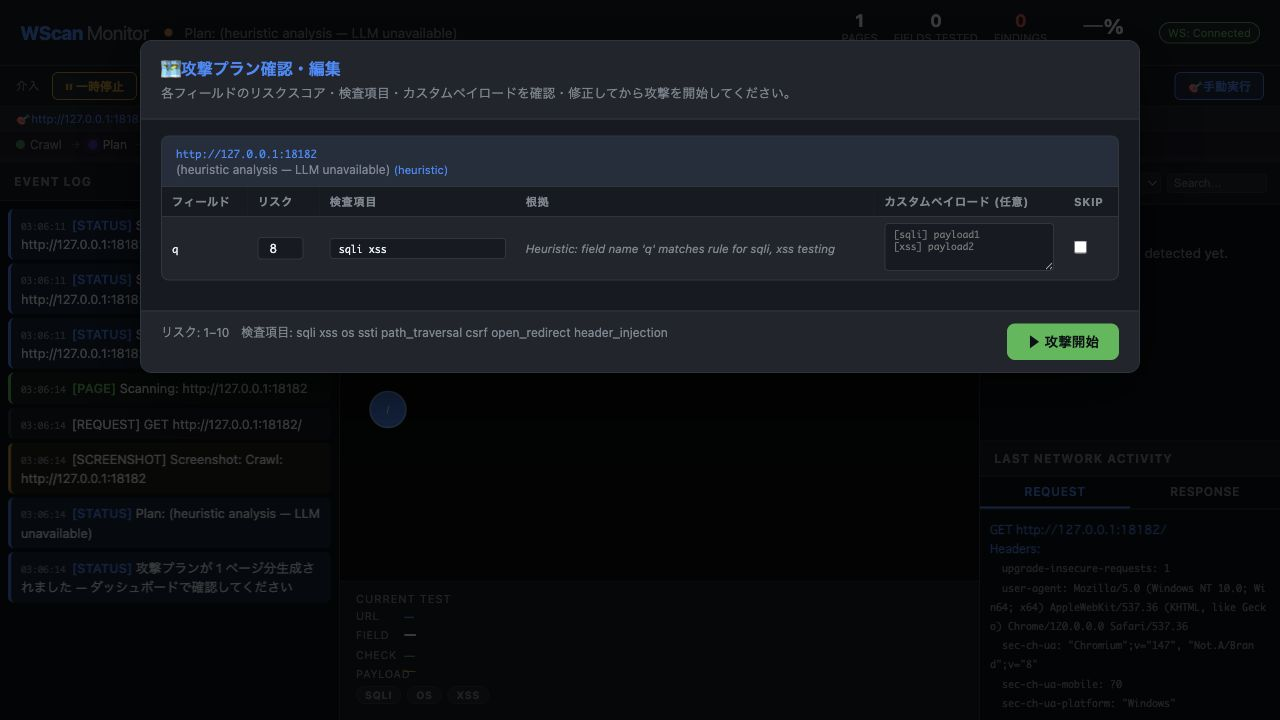
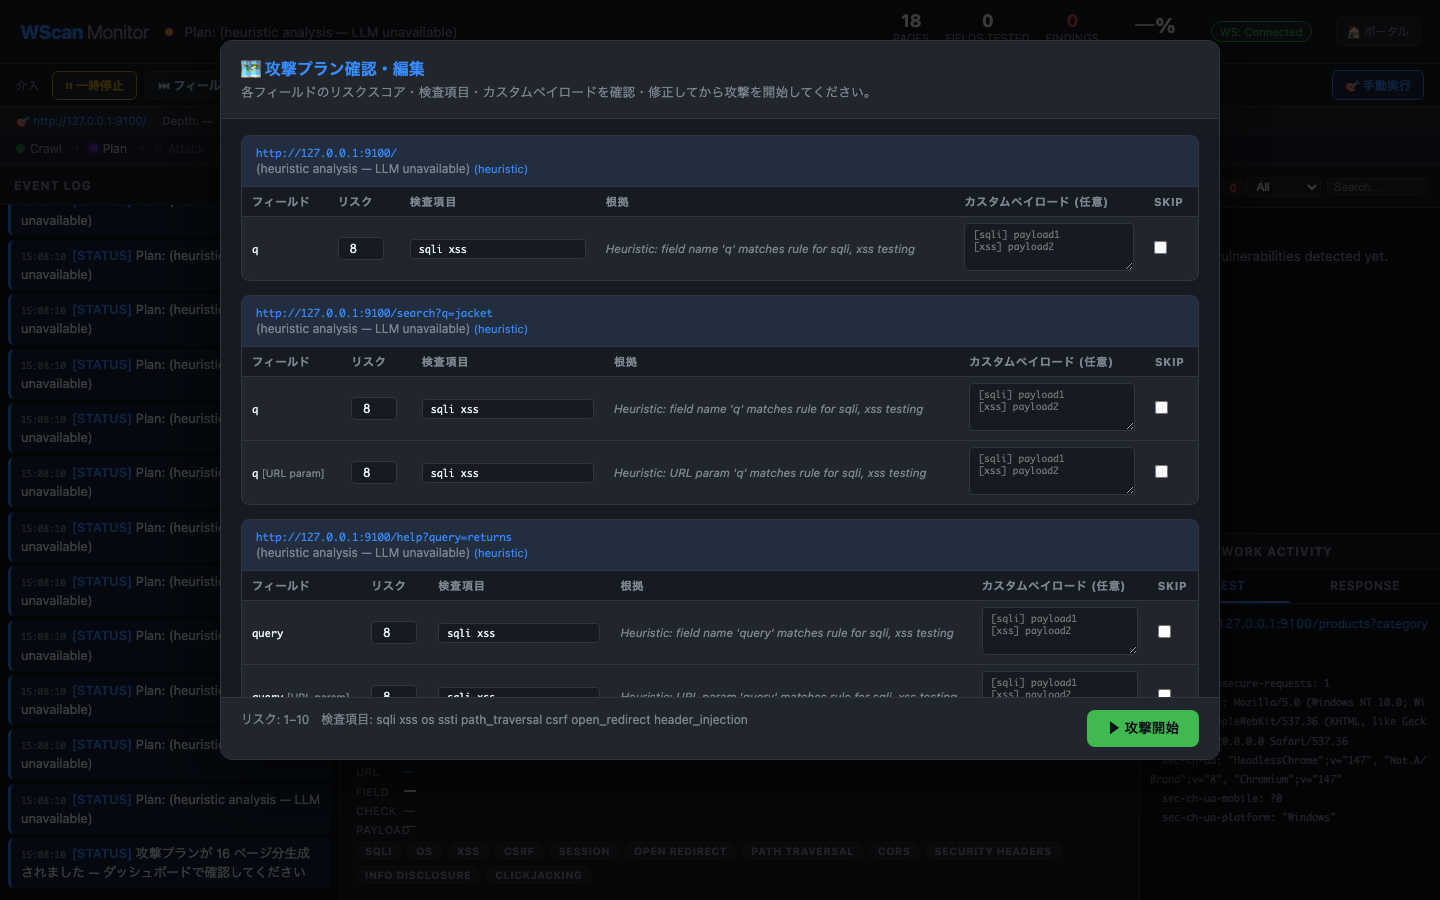
docs: ダッシュボードのスクリーンショットを現行 UI に更新
ダッシュボードが履歴中心のポータル + 「Scan Setup」オーバーレイ構成へ刷新された
ため、旧 UI のスクリーンショット4枚を実際の画面から再撮影し、説明文を同期。

- dashboard-start: Server Portal（実行中スキャン + 完了履歴 + レポート/SARIF/JSON）
- dashboard-configured: Scan Setup オーバーレイ（プロファイル/対象URL/各タブ/トグル）
- dashboard-running: 攻撃プラン確認・編集モーダル
- dashboard-results: ライブモニター（イベントログ/ワークスペース/Findings/通信）

dashboard_usage_ja.md:
- 対象 URL 例（旧 :18182）と「q パラメータ XSS」固定記述を現行スクショに合わせて一般化。
- 設定タブ一覧を現行（検査項目/LLM設定/機能フラグ/スコープ・除外/手動巡回/攻撃フロー/
  Agent Browser/ハイブリッド）に更新。

スクリーンショットは realistic_site フィクスチャに対する疑似検査で撮影。コード変更なし。

diff --git a/docs/dashboard_usage_ja.md b/docs/dashboard_usage_ja.md
@@ -2,7 +2,7 @@
 
 このガイドでは、WScan をコマンドラインから直接実行するのではなく、先にダッシュボードを起動して、ブラウザ上の入力フォームから検査を開始する手順を説明します。
 
-スクリーンショットは、ローカルの疑似脆弱アプリ `http://127.0.0.1:18182` に対して実際に疑似検査を実行したものです。検査例では、検索パラメータ `q` に対する XSS が検出されています。
+スクリーンショットは、ローカルの疑似脆弱アプリ（`tests/fixtures/realistic_site.py`）に対して実際に疑似検査を実行したものです。検査例では、セキュリティヘッダ欠如・CORS 設定ミス・反射型 XSS・SQLi などが検出されています。
 
 > 注意: WScan は脆弱性検査ツールです。自分が管理している環境、または検査許可を得た環境だけを対象にしてください。
 
@@ -50,11 +50,7 @@ python3 main.py serve --port 8766
 
 「Target URL」に検査対象の URL を入力します。
 
-今回の疑似検査では、ローカルの疑似脆弱アプリを対象にしています。
-
-```text
-http://127.0.0.1:18182
-```
+今回の疑似検査では、ローカルの疑似脆弱アプリを対象にしています（例: `http://127.0.0.1:9100/`）。
 
 ![検査設定の入力例](images/dashboard-configured.png)
 
@@ -94,12 +90,16 @@ http://127.0.0.1:18182
 
 | タブ | 主な用途 |
 | --- | --- |
-| 基本設定 | 深さ、タイムアウト、ペイロード数、プロキシなどを設定 |
-| チェック | XSS、SQLi、CSRF、CORS など検査種別を選択 |
-| 認証・Cookie | ログイン URL、ユーザー名、パスワード、Cookie を設定 |
-| スコープ | 検査対象外 URL、許可 URL、除外パラメータを設定 |
-| 手動クロール | 事前に操作したページや URL を検査対象に追加 |
-| Attack Flow | ログイン、カート投入、確認画面遷移など複数手順を定義 |
+| 基本設定 | 深さ、タイムアウト、ペイロード数、プロキシ、TLS 証明書などを設定 |
+| 検査項目 | XSS、SQLi、CSRF、CORS など検査種別を選択 |
+| 認証・Cookie | ログイン URL、ユーザー名、パスワード、Cookie、MFA を設定 |
+| LLM設定 | LLM プロバイダー（claude/openai/gemini/ollama/none）とモデルを選択 |
+| 機能フラグ | AI 分析・WAF 検出・ペイロード学習・SPA クロール等の ON/OFF |
+| スコープ・除外 | 検査対象外 URL、許可 URL、除外パラメータを設定 |
+| 手動巡回 | 事前に操作したページや URL を検査対象に追加（可視/遠隔ブラウザ・URL リスト） |
+| 攻撃フロー | ログイン、カート投入、確認画面遷移など複数手順を定義 |
+| Agent Browser | LLM がブラウザを自律操作する Agent モードの設定 |
+| ハイブリッド | 通常スキャンと Agent を組み合わせて実行 |
 
 認証が必要なサイトでは、「認証・Cookie」タブでログイン情報または Cookie を設定します。ログアウト、削除、送信、決済など副作用の大きい URL は「スコープ」タブで除外してください。
 
@@ -143,7 +143,7 @@ Crawl -> Plan -> Attack -> Report
 
 ![検出結果の表示](images/dashboard-results.png)
 
-疑似検査では、`q` パラメータに対して XSS ペイロードを投入し、JavaScript の `alert()` 発火が確認されたため、`XSS CONFIRMED` として検出されています。
+疑似検査では、ページ単位の検査（セキュリティヘッダ欠如・CORS 設定ミス等）や、入力フィールドへのペイロード投入による反射型 XSS・SQLi などが検出され、Findings パネルに重要度順に一覧表示されます。XSS では JavaScript の `alert()` 発火を確認できたものを `XSS CONFIRMED` として扱います。
 
 検出結果では、少なくとも次を確認してください。
 
